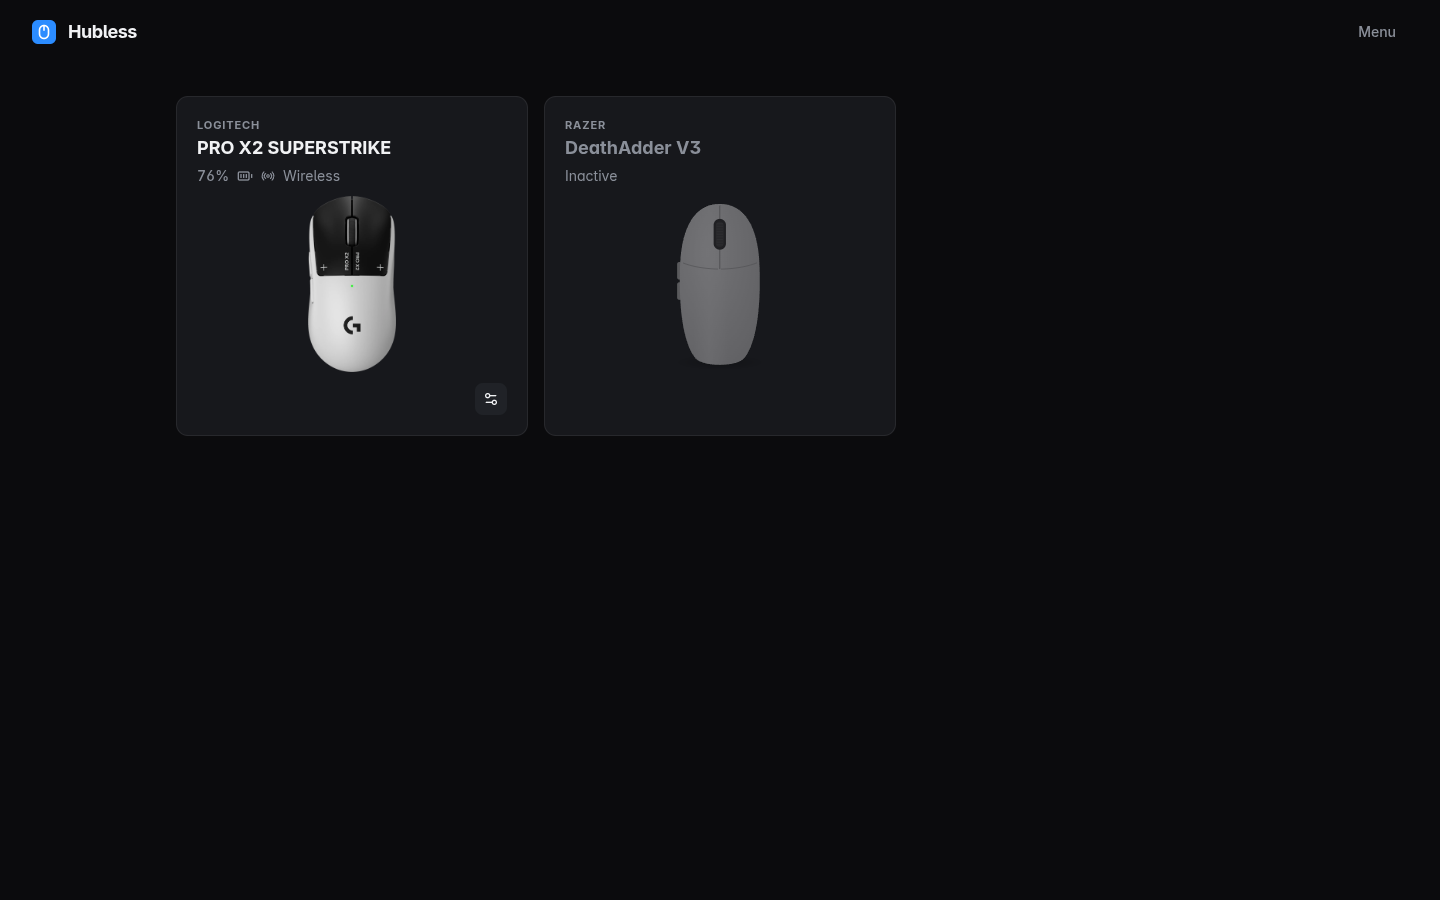
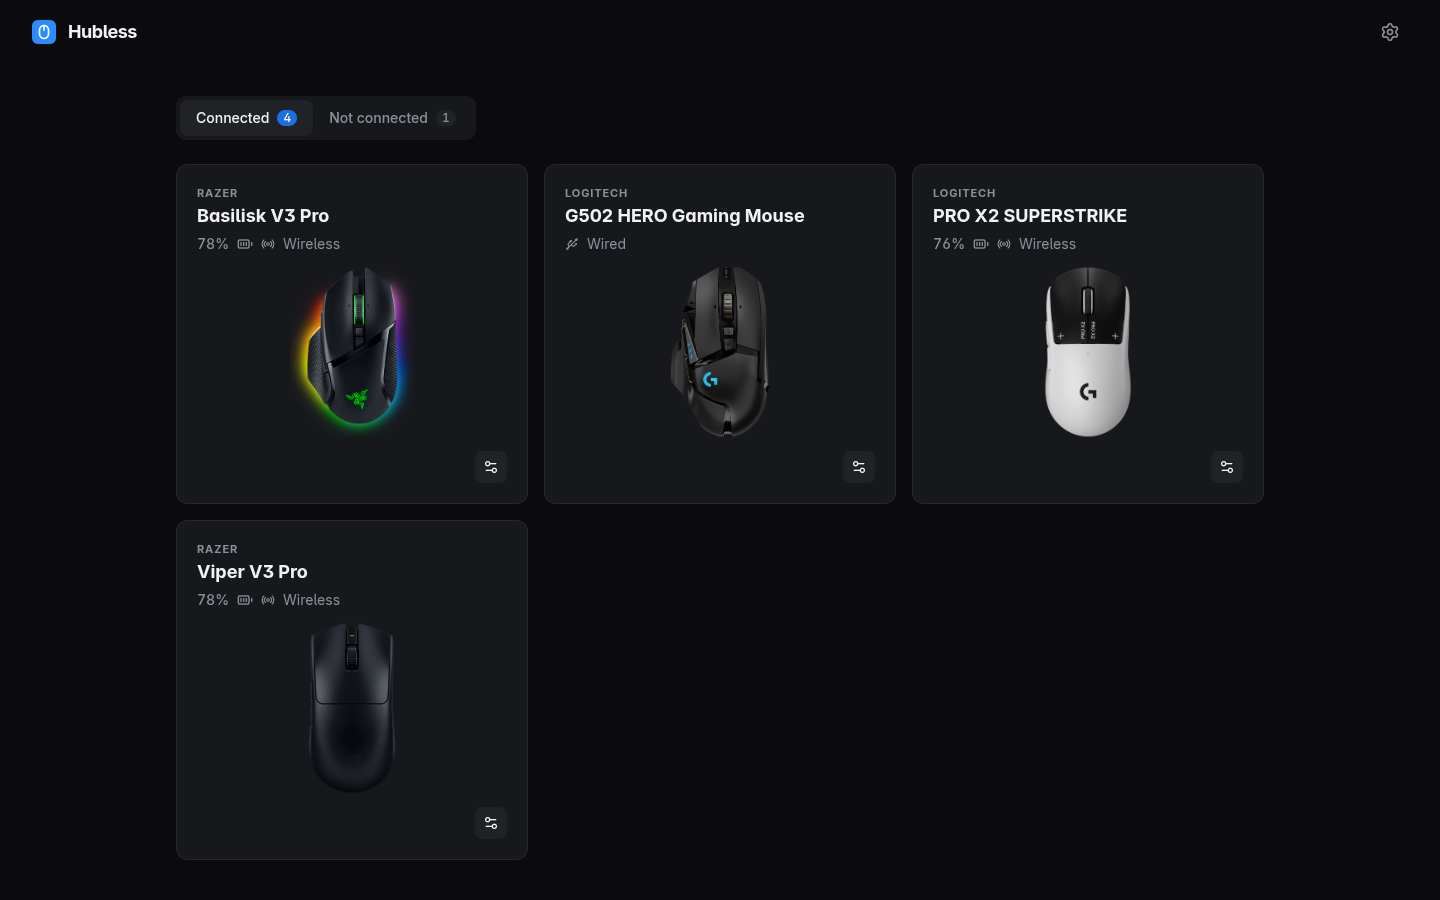
README: new screenshots (home, lighting, triggers), corrected counts and wording
The demo's G502 HERO now shows as wired, and the screenshot tool names files by device so
pages of different mice no longer overwrite each other.

diff --git a/src/main/manager.ts b/src/main/manager.ts
@@ -236,7 +236,7 @@ export class DeviceManager extends EventEmitter {
     caps.push('device')
     return {
       id, kind: 'mouse', vendor: 'Logitech', name: d.name, photo: this.photoKeys.get(id), status, battery: s.battery,
-      connection: this.demo ? 'Demo' : d.index === 0xff ? 'USB cable' : 'LIGHTSPEED wireless',
+      connection: d.index === 0xff ? 'USB cable' : this.demo ? 'Demo' : 'LIGHTSPEED wireless',
       capabilities: caps, verified: s.verified, demo: this.demo, lastSeen: Date.now()
     }
   }

diff --git a/src/main/index.ts b/src/main/index.ts
@@ -376,7 +376,7 @@ async function screenshots(dir: string) {
     for (const [i, page] of d.capabilities.entries()) {
       await js(`window.__nav && window.__nav(${JSON.stringify(page)})`)
       await wait(800)
-      await shot(`${d.kind}-${i + 1}-${page}`)
+      await shot(`${d.name.toLowerCase().replace(/[^a-z0-9]+/g, '-')}-${i + 1}-${page}`)
     }
     await js('window.__open(null)')
     await wait(400)

diff --git a/README.md b/README.md
@@ -10,11 +10,15 @@ into their own memory.
 
 </div>
 
-<img src="docs/screenshots/0-home.png" alt="Hubless home screen listing a connected mouse">
+<img src="docs/screenshots/0-home.png" alt="Hubless home screen with four connected mice, each with its photo, battery level and connection">
 
 | Sensor & DPI | Buttons |
 |---|---|
-| <img src="docs/screenshots/mouse-2-sensor.png" alt="DPI stages, quick picks and polling rate"> | <img src="docs/screenshots/mouse-3-buttons.png" alt="Button assignments on a picture of the mouse"> |
+| <img src="docs/screenshots/pro-x2-superstrike-2-sensor.png" alt="DPI stages, quick picks and polling rate"> | <img src="docs/screenshots/pro-x2-superstrike-3-buttons.png" alt="Button assignments on a picture of the mouse"> |
+| **Lighting** | **Triggers (PRO X2 SUPERSTRIKE)** |
+| <img src="docs/screenshots/g502-hero-gaming-mouse-4-lighting.png" alt="RGB lighting: effect and colour for each light zone"> | <img src="docs/screenshots/pro-x2-superstrike-1-triggers.png" alt="Actuation point, rapid trigger and haptics for the left and right button"> |
+
+<sub>Screenshots are from the built-in demo (`hubless --demo`), which simulates these mice.</sub>
 
 <div align="center">
 
@@ -89,6 +93,8 @@ devices stay on the devices.
 - **The “Allow Hubless” banner keeps coming back.** Log out and back in once, or press ⚙ Settings → Grant access again.
 - **Changes don't stick.** Close other tools that talk to the same device (Solaar, Piper, OpenRazer's daemon,
   Wootility in a browser) while you use Hubless.
+- **“Couldn't update: pkexec must be setuid root”.** Versions before 0.20.2 could not install a second update without
+  being reopened. Quit Hubless (tray icon → Quit) and open it again from your app launcher; the update then installs.
 - **Something went wrong.** Every device page has *Restore a backup…*; a backup is made before the first change of
   every session.
 
@@ -103,17 +109,18 @@ devices stay on the devices.
 | WLmouse Ying (cable) | DPI stages, polling, lift-off, angle snap, motion sync, ripple, debounce | ✅ Tested on hardware |
 | Wooting 60HE | Actuation, rapid trigger, per-key settings, key mapping, Mod-Tap / Snap Tap, lighting | ✅ Tested on hardware |
 | Fractal Design Scape | Battery, EQ, noise cancelling, sidetone, lighting | ✅ Tested on hardware |
-| 61 other Logitech G mice | DPI, polling, buttons, onboard profiles, RGB lighting (G502, G203, G Pro and others with RGB) | 🧪 Should work, untested |
+| 52 other Logitech G mice | DPI, polling, buttons, onboard profiles, RGB lighting (G502, G203, G Pro and others with RGB) | 🧪 Should work, untested |
 | 74 Razer mice (Viper, DeathAdder, Basilisk, Cobra, Naga…) | DPI stages, polling up to 8 kHz, battery, RGB lighting on 53 of them | 🧪 Should work, tested on a simulated mouse |
 
-About 90 more devices (SteelSeries, ASUS, Glorious, Roccat, older Razer and more) are recognised by name and marked
+About 85 more devices (SteelSeries, ASUS, Glorious, Roccat, older Razer and more) are recognised by name and marked
 "support coming soon"; they can't be configured yet. Own an untested one? **Device settings → Copy device report**
 (or the card's ⋯ menu) copies a read-only report to paste into an issue. [DEVICES.md](DEVICES.md) lists every one.
 
 ## What to expect
 
 - **Settings live in the device.** Changes are saved into the device's onboard memory as you make them, so they keep
-  working in games, on other computers and without Hubless running.
+  working in games, on other computers and without Hubless running. One exception: Razer mice can't report
+  their lighting back, so Hubless remembers the lighting it last set in your home folder to show it again.
 - **Backups first.** The device memory is backed up before the first change of every session, writes are read back
   and compared, and backups can be restored from the device page.
 - **Use at your own risk.** Hubless writes to device memory using protocols worked out from public research and from
@@ -121,8 +128,9 @@ About 90 more devices (SteelSeries, ASUS, Glorious, Roccat, older Razer and more
   manufacturers' software and comes without warranty (see LICENSE).
 - **Firmware updates where the maker allows them.** Devices whose makers publish firmware for Linux (through fwupd)
   can be updated from the device page, after a settings backup. Wooting keyboards are handed to Wootility for updates.
-  Logitech G, Razer, Endgame Gear and WLmouse only ship firmware through their Windows apps, so Hubless shows the
-  version and says so.
+  Logitech G, Razer, Endgame Gear, WLmouse and Fractal Design only ship firmware through their own Windows or macOS
+  apps, so for those Hubless shows the installed version and names the app you need. Hubless never writes firmware
+  itself.
 - **Keeps running in the tray** if you want it to (for low-battery warnings). This can be turned off in Settings.
 
 ## Privacy
@@ -141,8 +149,8 @@ npx electron-vite build
 npx electron-builder --linux pacman     # or AppImage, deb, rpm → dist/
 ```
 
-Try it without hardware: `hubless --demo` (or `npx electron . --demo` from the source folder) shows a simulated
-Logitech PRO X2 SUPERSTRIKE and Razer Viper V3 Pro.
+Try it without hardware: `hubless --demo` (or `npx electron . --demo` from the source folder) shows four
+simulated mice: Logitech PRO X2 SUPERSTRIKE and G502 HERO, Razer Viper V3 Pro and Basilisk V3 Pro.
 
 ## Development
 
@@ -168,8 +176,8 @@ those credits and the licenses of bundled libraries.
 
 Hubless is not affiliated with, endorsed by or sponsored by Logitech, Razer, Wooting, Fractal Design, Endgame Gear,
 WLmouse or any other manufacturer. Product names and brands belong to their owners and are used only to identify compatible
-hardware. Product photos in `data/devices/` belong to and are credited to their manufacturers (Logitech, Wooting, Fractal
-Design, Endgame Gear, WLmouse). They are not covered by the MIT license, are used only to show which hardware is supported, and
+hardware. Product photos in `data/devices/` belong to and are credited to their manufacturers (Logitech, Razer, Wooting,
+Fractal Design, Endgame Gear, WLmouse, Glorious). They are not covered by the MIT license, are used only to show which hardware is supported, and
 will be removed on request through an [issue](https://github.com/Ynnad242/hubless/issues).
 
 Hubless is free and always will be. It is MIT licensed.
